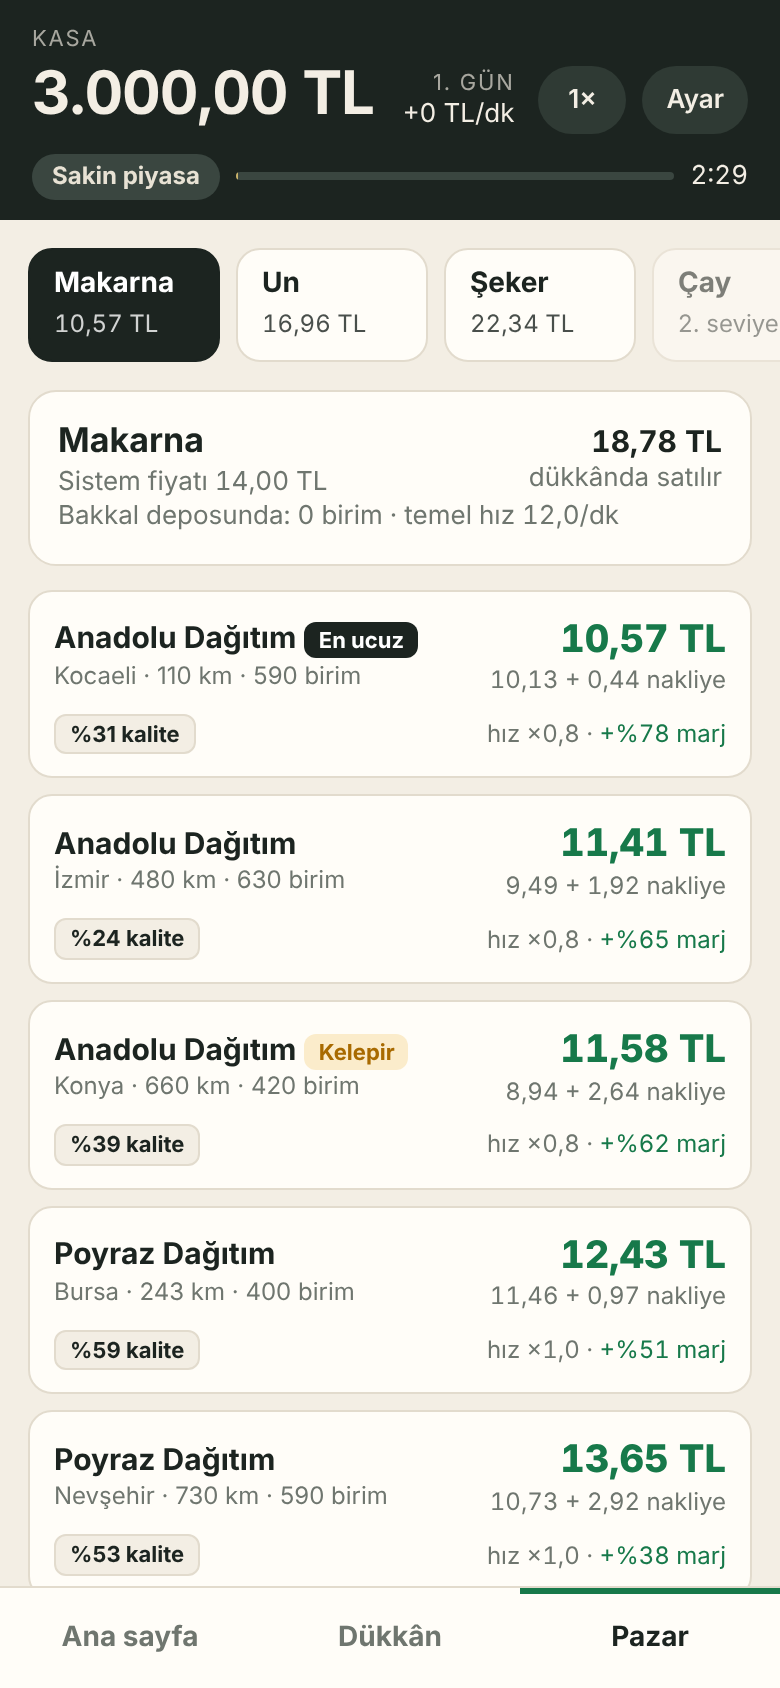
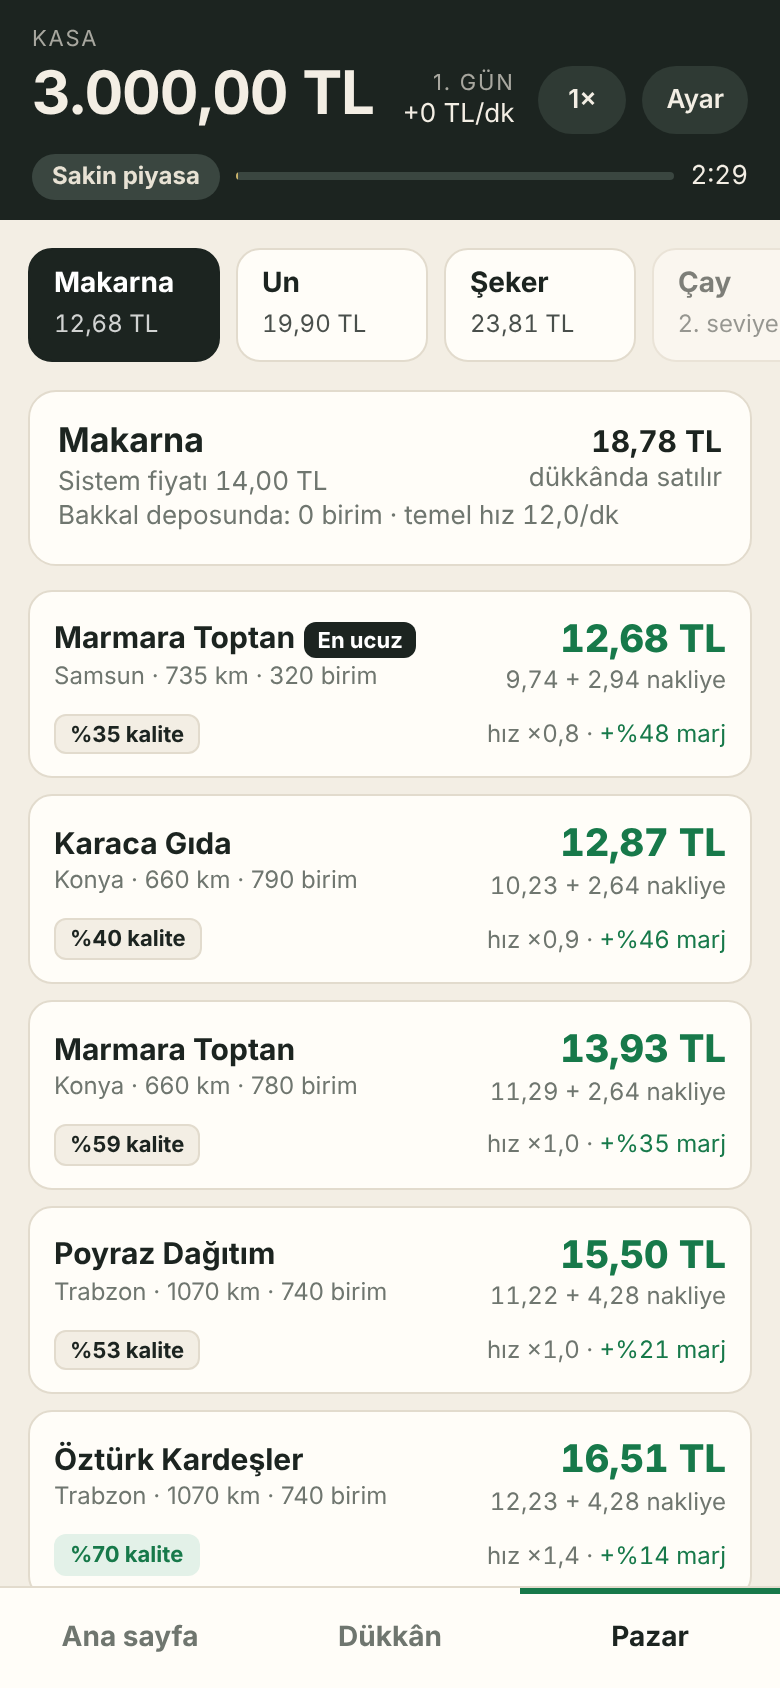
Küçük dükkân tek raf, orta 3 raf; tempo ayarı
Claude-Session: https://claude.ai/code/session_016ga1EdVkJkJaVmwRgvhwTG

diff --git a/prototypes/dukkan-pazar/index.html b/prototypes/dukkan-pazar/index.html
@@ -99,9 +99,9 @@ svg.sp{display:block;width:100%;height:38px}
 "use strict";
 /* ---- Ayar değerleri: dengenin tamamı burada ---- */
 const CONFIG={
-  startCash:3000, daySec:240, marketSec:150, rateScale:1, rentScale:1, shipPerKm:0.004, churnSec:12, xpBase:2500, xpPow:2.2, loanRatio:.6, interestDay:.04,
+  startCash:3000, daySec:240, marketSec:150, rateScale:1, rentScale:1, shipPerKm:0.004, churnSec:12, xpBase:1800, xpPow:2.2, loanRatio:.6, interestDay:.04,
   states:{sakin:{ad:"Sakin piyasa",m:1},canli:{ad:"Canlı piyasa",m:1.12},kotu:{ad:"Kötü piyasa",m:0.88}},
-  sizes:[{ad:"Küçük",shelves:2,depot:1200,rent:120,costK:0},{ad:"Orta",shelves:4,depot:3000,rent:300,costK:.8},{ad:"Büyük",shelves:6,depot:6000,rent:700,costK:3}],
+  sizes:[{ad:"Küçük",shelves:1,depot:1200,rent:120,costK:0},{ad:"Orta",shelves:3,depot:3000,rent:300,costK:.6},{ad:"Büyük",shelves:6,depot:6000,rent:700,costK:3}],
   types:[
     {id:"bakkal",ad:"Bakkal",level:1,cost:3500,tier:1,products:[["makarna","Makarna",14],["un","Un",22],["seker","Şeker",36],["cay","Çay",42],["pirinc","Pirinç",48],["yag","Ayçiçek yağı",78]]},
     {id:"manav",ad:"Manav",level:3,cost:6000,tier:1.1,products:[["sogan","Soğan",12],["patates","Patates",16],["domates","Domates",28],["elma","Elma",34],["limon","Limon",40],["muz","Muz",62]]},
@@ -331,8 +331,8 @@ document.addEventListener("click",e=>{
   else if(a==="close"){closeSheet()}
   dirty=true;render()});
 /* ---- Kayıt ve döngü ---- */
-function save(){try{localStorage.setItem("kervan-dp3",JSON.stringify({S,lid}))}catch(e){}}
-function load(){try{const j=JSON.parse(localStorage.getItem("kervan-dp3"));if(j&&j.S&&j.S.shops&&!j.S.dead&&PIDS.every(id=>j.S.listings[id])){S=j.S;lid=j.lid;return true}}catch(e){}return false}
+function save(){try{localStorage.setItem("kervan-dp4",JSON.stringify({S,lid}))}catch(e){}}
+function load(){try{const j=JSON.parse(localStorage.getItem("kervan-dp4"));if(j&&j.S&&j.S.shops&&!j.S.dead&&PIDS.every(id=>j.S.listings[id])){S=j.S;lid=j.lid;return true}}catch(e){}return false}
 if(!load())newGame();
 render();
 let fc=0;
